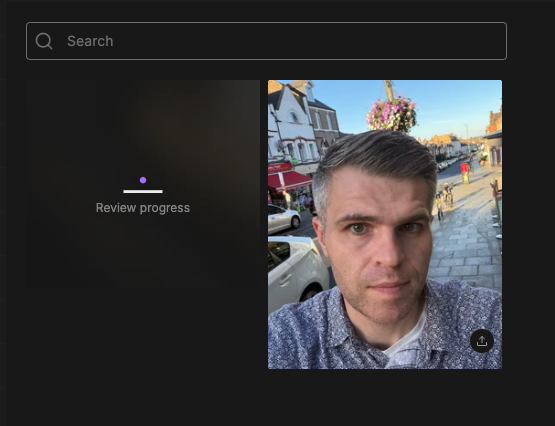
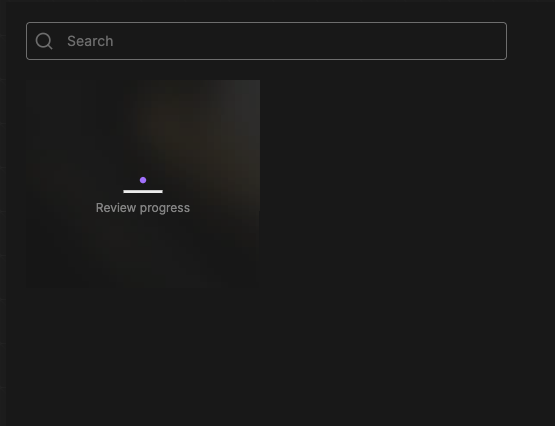
talk is better

Changed region(s): [[0.4595, 0.1831, 0.9189, 0.885]]

diff --git a/slides.md b/slides.md
@@ -329,21 +329,17 @@ So if you combine all those together (prompt enhancement, auto model, and auto m
 
 ---
 
-<center class="text-xl text-neutral-300">Creative Guidance: <span class="text-blue">Boots in a Glacier</span></center>
-
-<div class="mt-4 flex justify-evenly items-center">
-  <img src="./assets/board-glacier.png" class="h-100" />
-  <img src="./assets/boots-glacier.png" class="h-66" />
+<div class="flex justify-evenly items-center">
+  <img src="./assets/board-glacier.png" class="h-120" />
 </div>
 
 <!--
 Here's another example of creative guidance. I put a couple of pictures of a glacier in the moodboard, and I got this really cool picture of boots hanging out by a frozen lake.
 -->
 
-
 ---
 
-<p class="!mb-4 text-sm font-bold tracking-[0.16em] text-green uppercase">OUR CUSTOMERS DON'T WANT TO SELL MY AI-GENERATED BOOTS</p>
+<p v-click class="!mb-4 text-sm font-bold tracking-[0.16em] uppercase">OUR CUSTOMERS DON'T WANT TO SELL MY AI-GENERATED BOOTS</p>
 
 <div class="mt-4 gap-4 flex justify-evenly items-center">
   <img src="./assets/boots-glacier.png" class="h-100" />
@@ -354,7 +350,6 @@ Here's another example of creative guidance. I put a couple of pictures of a gla
 Prompt: Replace the boots in this image with a stack ION chocolate bars
 
 They don'tw want to sell my AI generated boots, they want to sell their own products...
-
 -->
 
 ---
@@ -430,7 +425,7 @@ transition: none
 
 <div class="absolute pr-4 grid grid-cols-[1fr_28rem] items-center gap-14">
   <div>
-    <p class="!mb-3 text-sm font-bold tracking-[0.2em] text-green uppercase">The Full AI Workflow</p>
+    <p class="!mb-3 text-sm font-bold tracking-[0.2em] text-green uppercase">Our Full AI Workflow</p>
     <h1 class="!m-0 text-6xl leading-tight text-blue">Producer<br/>Mode</h1>
     <p class="mt-6 max-w-md text-xl leading-relaxed text-slate-300">
       Use moodboard images to enhance the users image prompt and then pick
@@ -515,19 +510,11 @@ transition: none
 transition: none
 ---
 
-# Maintaining Creative Control
+# Cutting Out The Slop
 
   <img src="./assets/fishing-bad.png" class="left-36 absolute h-100"/>
 
 
-<ModelBadge
-  v-click
-  class="absolute right-7 top-6 z-20 w-88"
-  :step="5"
-  title="Evaluate Realism"
-  model-type="Multi-Modal LLM"
-  model="Gemini Flash 3.8"
-/>
 
 <!--
 
